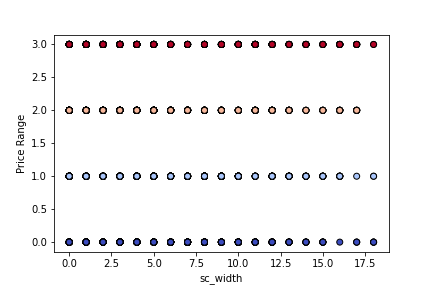
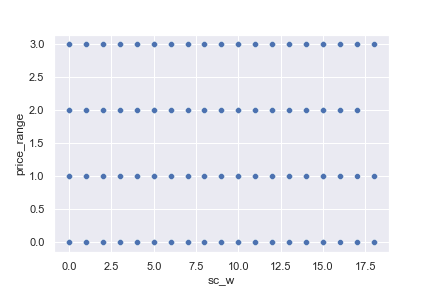
mas graficas

diff --git a/Code/Analisis.py b/Code/Analisis.py
@@ -1,6 +1,7 @@
 import numpy as np
 import pandas as pd
 import matplotlib.pyplot as plt
+import seaborn as sns
 from sklearn.linear_model import LogisticRegression
 from sklearn import svm, datasets
 from sklearn.model_selection import train_test_split
@@ -8,20 +9,36 @@ from sklearn.model_selection import train_test_split
 dataset = pd.read_csv("../BD/price_classification.csv")
 dataset_values = dataset.values
 
-title_x = ["battery_power","bluetooth","clock_speed","dual_sim","pixels_fc","fourg"
-         ,"int_memory","m_depth","m_weight","n_cores","pixels_pc","px_height","px_width",
-         "ram","sc_height","sc_width","talk_time","threeg","touch_screen","wifi"]
-title_y = "Price Range"
-
-X = dataset_values[:,:20]
-y = dataset_values[:,-1]
-
+titles = dataset.columns.values
 n_clases = dataset["price_range"].nunique()
 
+'''Creacion de graficas'''
+
+'''Dispersion'''
 plt.figure()
-for i in range(X.shape[1]):
-    plt.xlabel(title_x[i])
-    plt.ylabel(title_y)
-    plt.scatter(X[:,i], y, c=y, cmap=plt.cm.coolwarm, edgecolors='k')
+sns.set()
+for i in range(dataset.shape[1] - 1):
+    sns.scatterplot(data=dataset, x=titles[i], y=titles[-1], palette='pastel')
     plt.savefig("../Graficas/disp/Caracteristica" + str(i+1) + ".png")
     plt.clf()
+    
+
+'''De barras'''
+
+sns.histplot(data=dataset, x="price_range", palette='pastel')
+plt.savefig("../Graficas/hist/histograma_preus.png")
+plt.clf()
+
+
+for i in range(dataset.shape[1] - 1):
+    sns.histplot(data=dataset, x=titles[i], hue="price_range", multiple="dodge", shrink=.8, palette='pastel')
+    plt.savefig("../Graficas/hist/Caracteristica" + str(i+1) + ".png")
+    plt.clf()
+
+'''Mapa de calor'''
+fig, ax = plt.subplots(figsize=(20,20))
+cmap = sns.color_palette('pastel', as_cmap=True)
+sns.heatmap(dataset.corr(), ax=ax, cmap=cmap, vmin=0, vmax=1, center=0,
+            square=True, linewidths=.5, cbar_kws={"shrink": .5}, annot=True)
+plt.savefig("../Graficas/heatmap/mapa-de-calor.png")
+plt.clf()
